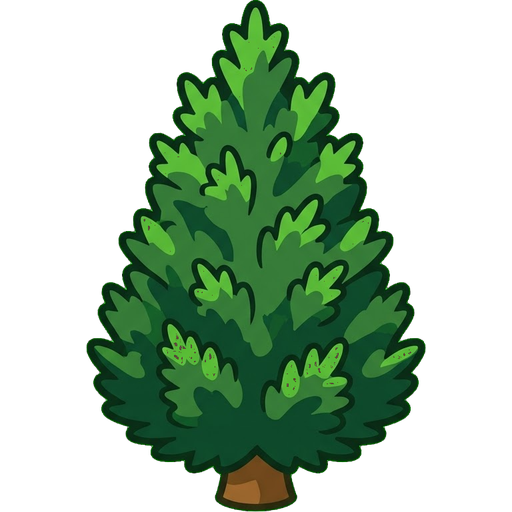
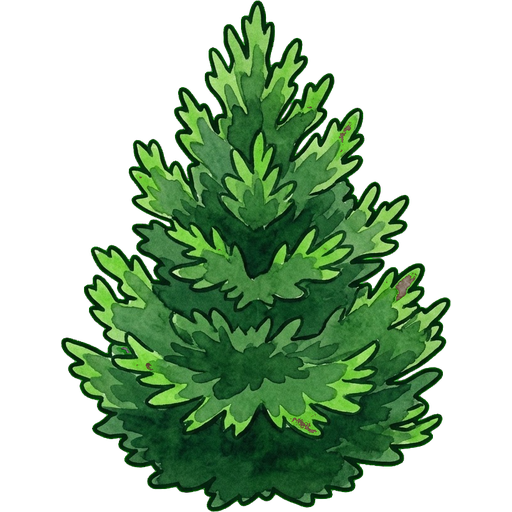
Add sticker: Cedar Thuja (tree-conifer_cedar-thuja_XL_CA-US-FR-GB-AU)

diff --git a/tools/sticker-generate-one.py b/tools/sticker-generate-one.py
@@ -42,6 +42,11 @@ TEMPLATES = {
         "No shadows. No background showing in the center of the plant. Centered, 75% "
         "canvas fill. Vibrant and iconic."
     ),
+    "cedar": (
+        "Aerial side view. Art style: Watercolor painting — tasteful simplified representation of this plant with crisp edges, "
+        "focusing on a primary characteristics of the plant, no trunk, bold flat icon. Dark outline 2-3px. No shadows. "
+        "No background showing in the center of the plant. Centered, 75% canvas fill. Vibrant and iconic."
+    ),
     "deciduous": (
         "Side aerial view. Art style: Plants vs. Zombies meets watercolor painting — "
         "tasteful simplified representation of this plant with crisp edges, focusing on "
@@ -99,7 +104,7 @@ PLANT_LOOKUP = {
     "hydrangea":         ("flower-cluster_hydrangea",    "L",  384, "Shrub",          "plant",     "cornflower blue #5B8DD9, pale lavender #C4B8E8, soft pink #F0B8C8, mid-green #4A7C2F, dark outline #1A1A2E", "Rounded shrub with massive domed flower heads of densely packed small florets in blue and pink, stems at bottom and florals at top."),
 
     # ── Conifers (additions) ──────────────────────────────────────────────────────────
-    "cedar thuja":       ("tree-conifer_cedar-thuja",       "XL", 512, "Conifer Tree",   "pine",      "deep forest green #1A5C1A, mid-green #2E7A2E, bright green tips #5AB83A, dark outline #0A2010, warm brown base #7A5C2A", "Tall narrow conical/columnar evergreen conifer (Thuja occidentalis), dense tight upright form tapering to a point, no visible trunk."),
+    "cedar thuja":       ("tree-conifer_cedar-thuja",       "XL", 512, "Conifer Tree",   "cedar",     "deep forest green #1A5C1A, mid-green #2E7A2E, bright green tips #5AB83A, dark outline #0A2010, No browns", "Correct proportions."),
 
     # ── Cacti ──────────────────────────────────────────────────────────────────────────
     "saguaro cactus":    ("cactus_saguaro",              "XL", 512, "Cactus", "plant", "pale green #8ABF6A, mid green #5A8A3A, deep green #2A5A1A, warm tan ribs #C8A870, dark outline #1A2A0A", "Tall iconic columnar cactus with 2-3 upward-curving arms, vertical ribbing, clusters of spines. Bold silhouette."),
@@ -350,6 +355,14 @@ def main():
             f"Canvas: {size_px}px square.\n"
             f"Colours: {colours}, flat chroma-key green background (#00FF00)\n"
             f"Shape: {shape} Natural proportions."
+        )
+    elif template == "cedar":
+        prompt = (
+            f"{prefix}\n\n"
+            f"Subject: Cedar Thuja Conical Tree, no trunk.\n"
+            f"Canvas: {size_px}px square.\n"
+            f"Colours: {colours}, flat chroma-key green background (#00FF00)\n"
+            f"Shape: Correct proportions."
         )
     elif template == "pine":
         prompt = (
